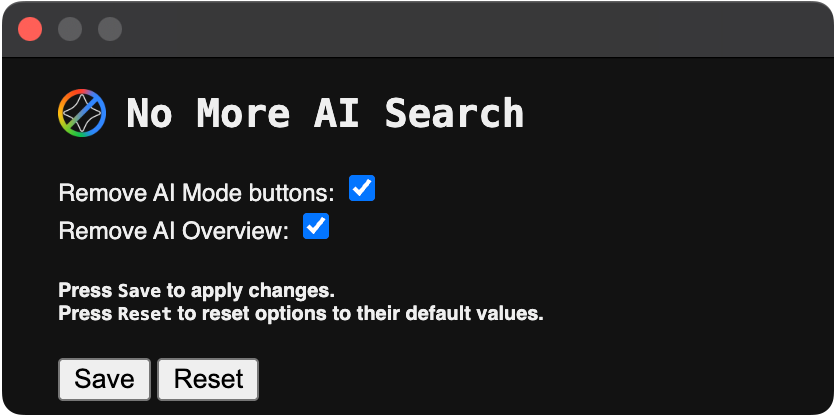
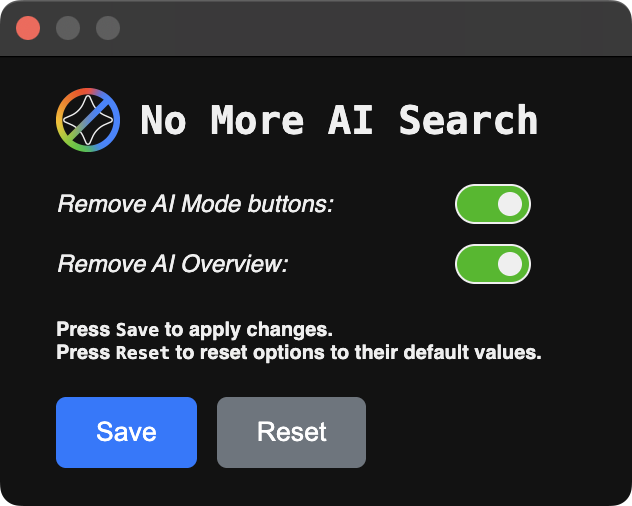
update options styling

diff --git a/src/options.html b/src/options.html
@@ -23,23 +23,146 @@
             align-items: center;
             gap: 10px;
         }
+
+        label {
+            font-style: italic;
+        }
+
+        input:where([type="checkbox"][role="switch"]) {
+            -webkit-appearance: none;
+            -moz-appearance: none;
+            appearance: none;
+            position: relative;
+            font-size: inherit;
+            width: 3em;
+            height: 1.5em;
+            box-sizing: content-box;
+            border: 1px solid;
+            border-radius: 1em;
+            vertical-align: text-bottom;
+            margin: auto;
+            color: inherit;
+            cursor: pointer;
+            transition: all 0.3s ease;
+        }
+
+        input:where([type="checkbox"][role="switch"])::before {
+            content: "";
+            position: absolute;
+            top: 50%;
+            left: 0.2em;
+            transform: translate(0, -50%);
+            box-sizing: border-box;
+            width: 1em;
+            height: 1em;
+            margin: 0 0.15em;
+            border: 1px solid;
+            border-radius: 50%;
+            background: currentcolor;
+            transition: all 0.3s ease;
+        }
+
+        input:where([type="checkbox"][role="switch"]):checked {
+            background-color: rgb(15, 186, 15);
+        }
+
+        input:where([type="checkbox"][role="switch"]):checked::before {
+            left: 1.55em;
+        }
+
+        input:where([type="checkbox"][role="switch"]):hover::before {
+            left: 0.5em;
+        }
+
+        input:where([type="checkbox"][role="switch"]):checked:hover::before {
+            left: 1.25em;
+        }
+
+        .option {
+            display: flex;
+            align-items: center;
+            gap: 10px;
+        }
+
+        .buttons {
+            display: flex;
+            align-items: center;
+            gap: 10px;
+            margin-bottom: 20px;
+        }
+
+        button {
+            background-color: #007bff;
+            color: white;
+            border: none;
+            padding: 10px 20px;
+            border-radius: 5px;
+            cursor: pointer;
+            transition: all 0.3s ease;
+        }
+
+        button:hover {
+            transform: translateY(1px);
+            background-color: #0056b3;
+        }
+
+        button:disabled {
+            background-color: #ccc;
+            cursor: not-allowed;
+        }
+
+        button:disabled:hover {
+            background-color: #ccc;
+            cursor: not-allowed;
+        }
+
+        button:active {
+            transform: translateY(1px) scale(0.98);
+            background-color: #004691;
+        }
+
+        button.secondary {
+            background-color: #6c757d;
+        }
+        button.secondary:hover {
+            background-color: #5a6268;
+        }
+        button.secondary:active {
+            background-color: #495057;
+        }
+
+        .options {
+            display: grid;
+            grid-template-columns: 1.2fr 1fr;
+            gap: 10px;
+            align-items: center;
+        }
+
     </style>
   </head>
 
-  <body style="font-family: sans-serif; width: 400px">
+  <body style="font-family: sans-serif; width: 300px">
     <form style="padding-left: 20px;">
-      <h1><img src="../icons/icon-128.png" alt="No More AI Search Logo" style="width: 24px; height: 24px;"> <code>No More AI Search</code></h1>
-      <label>Remove AI Mode buttons: <input type="checkbox" id="enabled" name="enabled"></label>
-      <br>
-      <label>Remove AI Overview: <input type="checkbox" id="overview" name="overview"></label>
+      <h1><img src="../icons/icon-128.png" alt="No More AI Search Logo" style="width: 32px; height: 32px;"> <code>No More AI Search</code></h1>
+      <div class="options">
+        <label for="enabled">Remove AI Mode buttons:</label>
+        <input type="checkbox" id="enabled" name="enabled" role="switch">
+
+        <label for="overview">Remove AI Overview:</label>
+        <input type="checkbox" id="overview" name="overview" role="switch">
+      </div>
+
       <h5>
         Press <code>Save</code> to apply changes.
         <br>
         Press <code>Reset</code> to reset options to their default values.
       </h5>
 
-      <button type="submit">Save</button>
-      <button type="reset">Reset</button>
+      <div class="buttons">
+        <button type="submit">Save</button>
+        <button type="reset" class="secondary">Reset</button>
+      </div>
+
     </form>
 
     <script src="options.js"></script>

diff --git a/README.MD b/README.MD
@@ -32,7 +32,7 @@
 
 ## Overview
 
-`No More AI Search` is a simple browser extension that removes the AI Mode button and AI Overview from Google Search results. Compatible with Chromium™ and Firefox based web browsers.
+`No More AI Search` is a simple browser extension that attempts to remove AI results from Google Search results. Compatible with Chromium™ and Firefox based web browsers.
 
 This extension is largely based on [zbarnz's](https://github.com/zbarnz) [Google AI Overview Blocker](https://github.com/zbarnz/Google_AI_Overviews_Blocker) extension. This version also blocks the AI Mode button in the Google Search toolbar, and allows you to enable or disable features with custom settings.
 
@@ -49,7 +49,7 @@ By checking or unchecking each of the options, you can enable or disable the fea
 - Remove AI Mode buttons
 - Remove AI Overview
 
-<img alt="No More AI Search preferences" src="docs/options.png" width="300">
+<img alt="No More AI Search preferences" src="docs/options.png" width="225">
 
 
 <!---
@@ -86,4 +86,4 @@ By checking or unchecking each of the options, you can enable or disable the fea
 
 ## License
 
-`No More AI Search` is licensed under `The MIT License`. For more information, view the repository's [`LICENSE`](LICENSE) file.
+`No More AI Search` is licensed under the `MIT License`. For more information, view the repository's [`LICENSE`](LICENSE) file.
